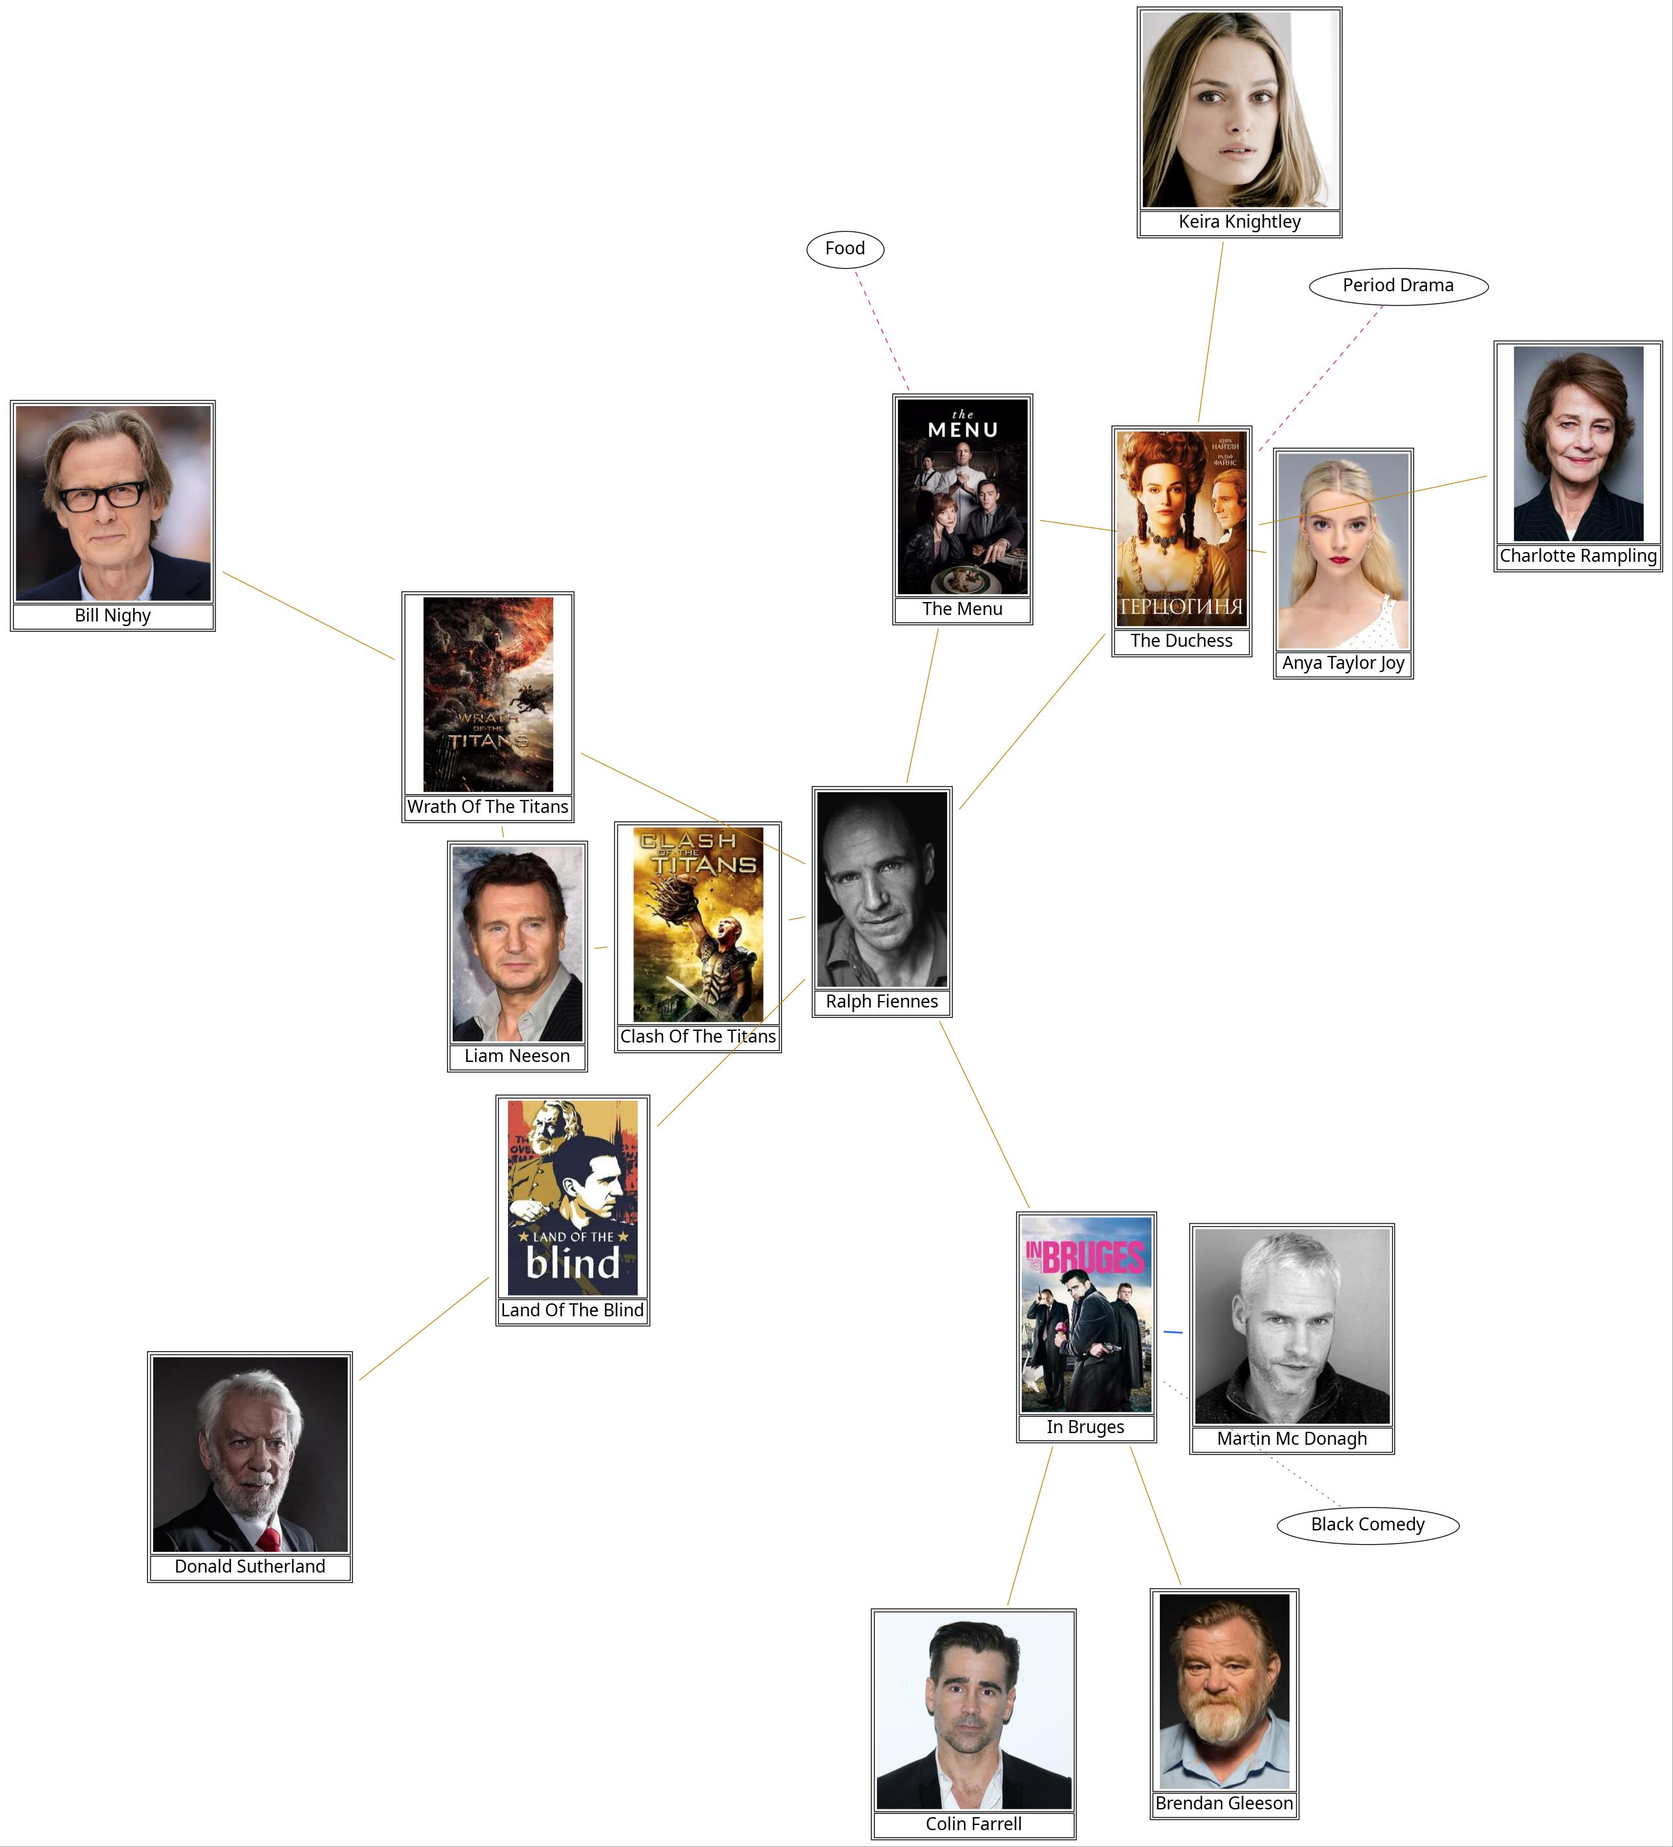
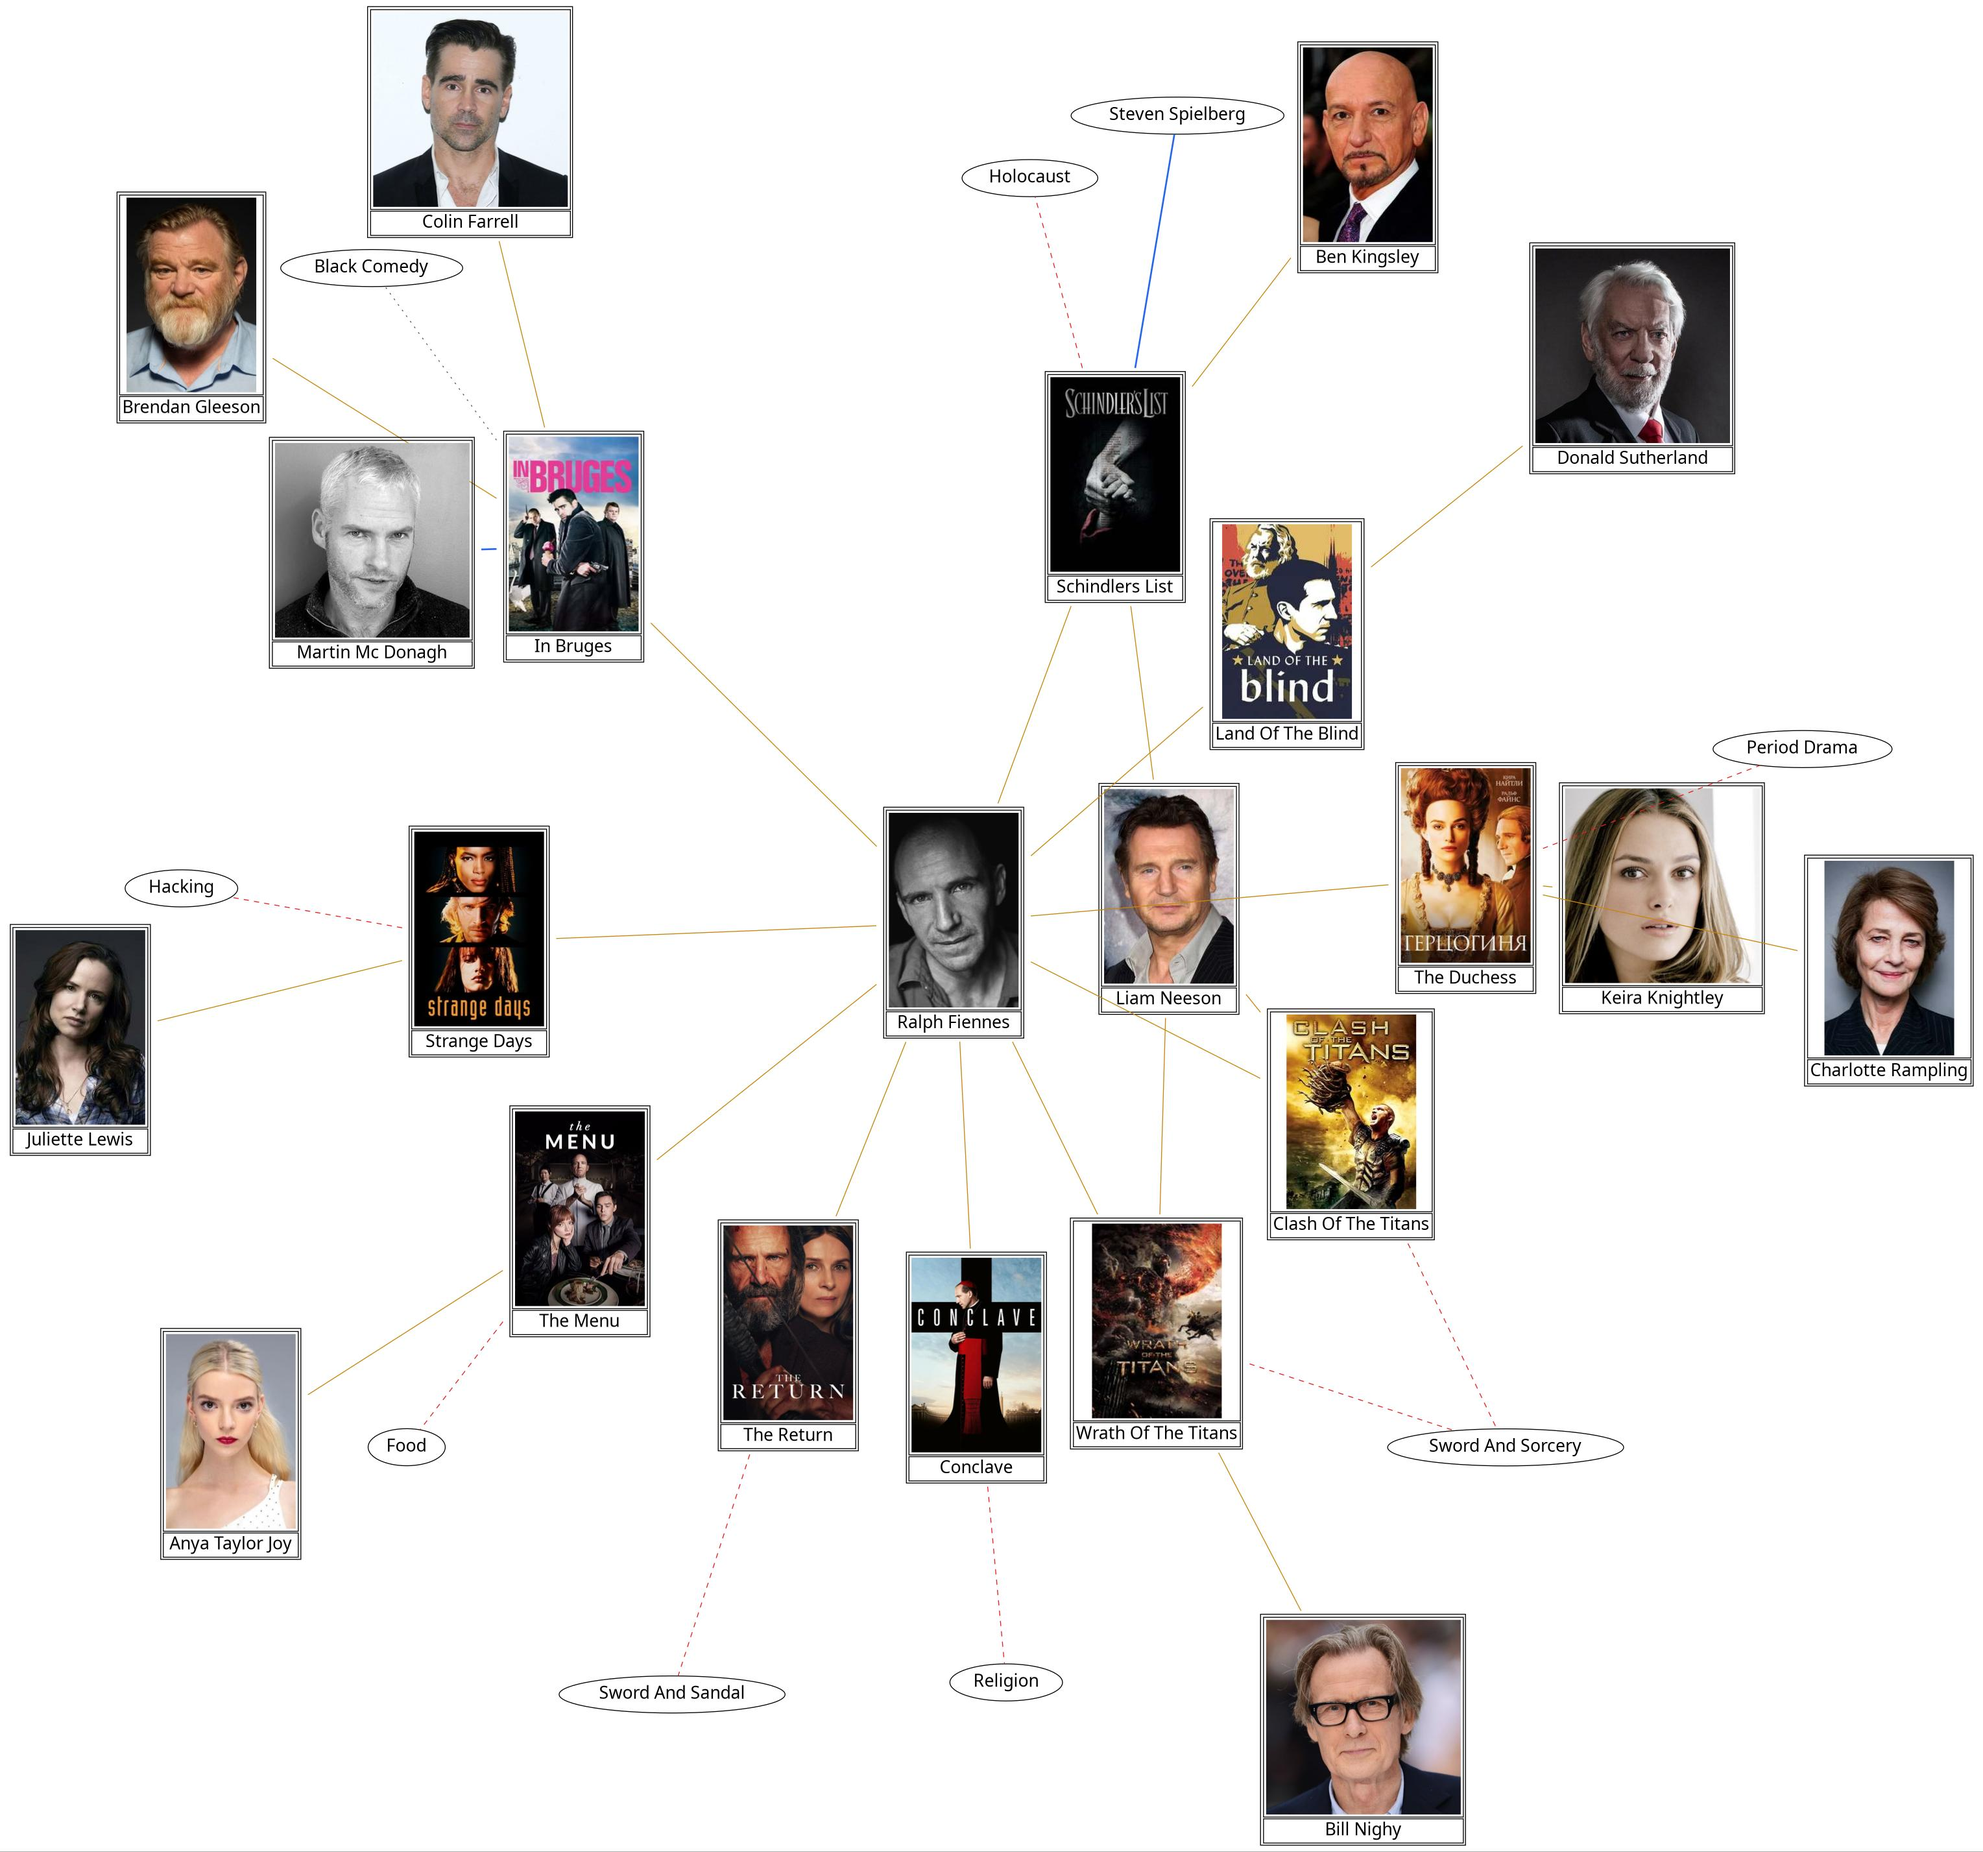
Sword And Sandal

diff --git a/movie-maps-themes/sword-and-sandal/index.html b/movie-maps-themes/sword-and-sandal/index.html
@@ -1,0 +1,74 @@
+<!DOCTYPE html>
+<html><head>
+    <meta charset="utf-8">
+    <meta name="viewport" content="width=device-width, initial-scale=1, shrink-to-fit=no">
+
+    <title>Sword And Sandal</title>
+    <meta name="description" content="">
+    <meta name="author" content=''>
+
+    <link href="https://fonts.googleapis.com/css2?family=Inconsolata:wght@400;700&display=swap" rel="stylesheet">
+    <link rel="stylesheet" href="https://stackpath.bootstrapcdn.com/bootstrap/4.5.0/css/bootstrap.min.css" integrity="sha384-9aIt2nRpC12Uk9gS9baDl411NQApFmC26EwAOH8WgZl5MYYxFfc+NcPb1dKGj7Sk" crossorigin="anonymous">
+
+    
+    <link rel="stylesheet" href="/sass/researcher.min.css">
+
+    
+</head>
+<body><div class="container mt-5">
+    <nav class="navbar navbar-expand-sm flex-column flex-sm-row p-0">
+        <a class="navbar-brand mr-sm-auto" href="https://darkvolumes.nz/">darkvolumes</a>
+        <div class="navbar-nav flex-row">
+            
+                
+                
+                     <a class="nav-item nav-link" href="/infosec">InfoSec</a>
+                    
+                        <span class="nav-item navbar-text mx-1">/</span>
+                    
+                
+                     <a class="nav-item nav-link" href="/photos">Photos</a>
+                    
+                        <span class="nav-item navbar-text mx-1">/</span>
+                    
+                
+                     <a class="nav-item nav-link" href="/movie-maps">Movies</a>
+                    
+                        <span class="nav-item navbar-text mx-1">/</span>
+                    
+                
+                     <a class="nav-item nav-link" href="/art">Art</a>
+                    
+                        <span class="nav-item navbar-text mx-1">/</span>
+                    
+                
+                     <a class="nav-item nav-link" href="/reading">Reading</a>
+                    
+                        <span class="nav-item navbar-text mx-1">/</span>
+                    
+                
+                     <a class="nav-item nav-link" href="/about">About</a>
+                    
+                        <span class="nav-item navbar-text mx-1">/</span>
+                    
+                
+                     <a class="nav-item nav-link" href="/index.xml"><img src="/rss.svg" width="16" alt="RSS Feed"></a>
+                    
+                
+            
+        </div>
+    </nav>
+</div>
+<hr>
+<div id="content">
+<div class="container">
+    <h2 id="sword-and-sandal">Sword And Sandal</h2>
+<figure class="moviemap"><img src="/movies/themes/Sword-And-Sandal.jpg">
+</figure>
+
+
+</div>
+
+        </div>
+</body>
+</html>

diff --git a/movie-maps-themes/index.html b/movie-maps-themes/index.html
@@ -123,6 +123,8 @@
         
             <li><a href="https://darkvolumes.nz/movie-maps-themes/social-criticism/">Social Criticism</a></li>
         
+            <li><a href="https://darkvolumes.nz/movie-maps-themes/sword-and-sandal/">Sword And Sandal</a></li>
+        
             <li><a href="https://darkvolumes.nz/movie-maps-themes/sword-and-sorcery/">Sword And Sorcery</a></li>
         
     </ul>
